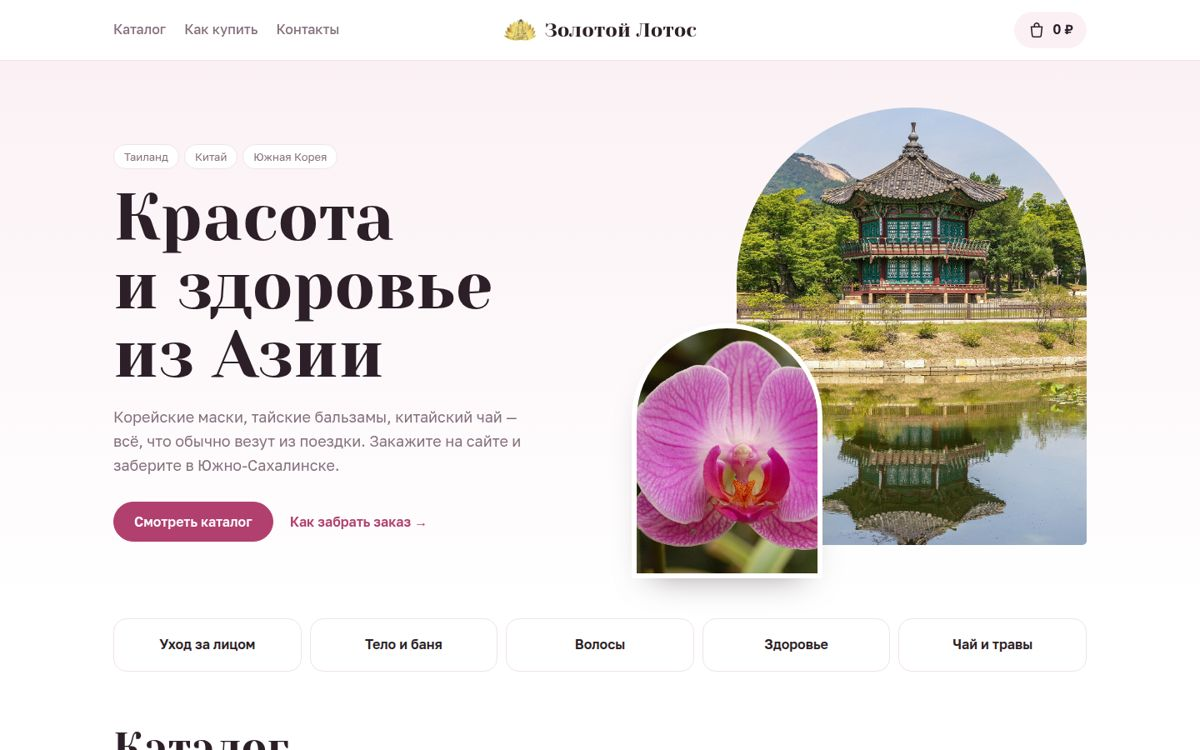
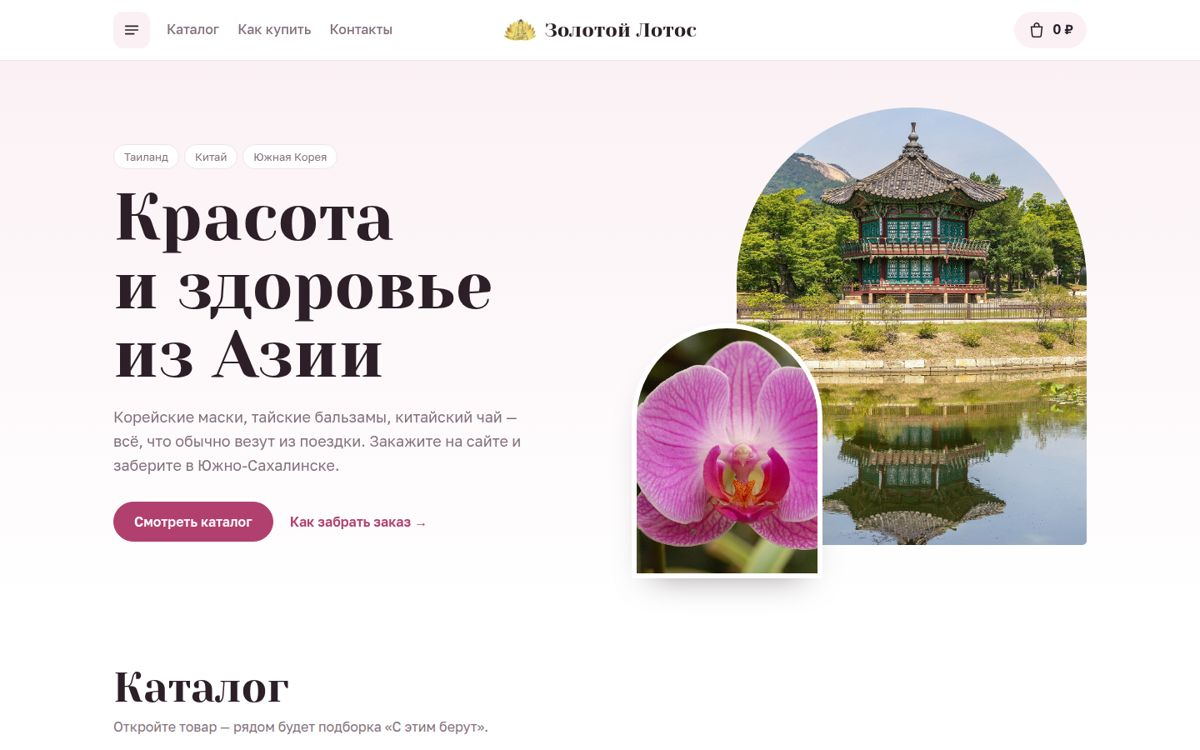
Боковое меню во всех вариантах, доработана вёрстка «Орхидеи» и «Тумана над горами»

diff --git a/lite/shop.css b/lite/shop.css
@@ -8,6 +8,7 @@ button, input, textarea { font: inherit; color: inherit; }
 button { cursor: pointer; }
 a { color: inherit; }
 :focus-visible { outline: 2px solid var(--accent); outline-offset: 2px; }
+[hidden] { display: none !important; }
 .lt-vh { position: absolute; width: 1px; height: 1px; overflow: hidden; clip: rect(0 0 0 0); }
 .wrap { width: 100%; max-width: 1200px; margin: 0 auto; padding-left: max(16px, env(safe-area-inset-left, 0px)); padding-right: max(16px, env(safe-area-inset-right, 0px)); }
 
@@ -32,6 +33,7 @@ a { color: inherit; }
 .lt-subs button { min-height: 36px; padding: 0 14px; border: 0; border-radius: 999px; background: var(--soft); font-size: 14px; transition: background .2s, color .2s; }
 .lt-subs button.is-on { background: var(--accent); color: var(--accent-ink); }
 .lt-search { position: relative; flex: 1 1 240px; max-width: 340px; margin-left: auto; }
+.lt-subs[hidden] + .lt-search { margin-left: 0; max-width: 420px; }
 .lt-search svg { position: absolute; left: 14px; top: 50%; width: 18px; translate: 0 -50%; fill: none; stroke: var(--muted); stroke-width: 2; }
 .lt-search input { width: 100%; height: 44px; padding: 0 14px 0 40px; border: 1px solid var(--line); border-radius: 999px; background: var(--surface); }
 .lt-grid { display: grid; grid-template-columns: repeat(auto-fill, minmax(220px, 1fr)); gap: 18px; }
@@ -40,13 +42,13 @@ a { color: inherit; }
 
 .lt-card { display: flex; flex-direction: column; border-radius: var(--r); background: var(--surface); border: 1px solid var(--line); overflow: hidden; transition: transform .3s ease, box-shadow .3s ease; }
 .lt-card:hover { transform: translateY(-3px); box-shadow: 0 16px 30px -22px rgba(0,0,0,.35); }
-.lt-card__img { position: relative; display: block; width: 100%; aspect-ratio: 1; padding: 14%; border: 0; background: var(--soft); }
+.lt-card__img { position: relative; display: block; overflow: hidden; min-height: 0; width: 100%; aspect-ratio: 1; padding: 14%; border: 0; background: var(--soft); }
 .lt-card__img svg, .lt-card__img img { width: 100%; height: 100%; object-fit: contain; transition: transform .4s ease; }
 .lt-card:hover .lt-card__img svg { transform: scale(1.04); }
 .lt-badge { position: absolute; top: 12px; left: 12px; padding: 3px 10px; border-radius: 999px; background: var(--surface); color: var(--accent); font-size: 12px; font-weight: 700; }
 .lt-card__body { flex: 1; display: flex; flex-direction: column; gap: 4px; padding: 14px 16px 16px; }
 .lt-card__meta { margin: 0; font-size: 12px; color: var(--muted); letter-spacing: .02em; }
-.lt-card__title { margin: 0 0 8px; font: 600 16px/1.3 var(--f-body); }
+.lt-card__title { margin: 0 0 8px; min-height: 2.6em; font: 600 16px/1.3 var(--f-body); }
 .lt-card__title button { padding: 0; border: 0; background: none; text-align: left; }
 .lt-card__title button:hover { color: var(--accent); }
 .lt-card__foot { margin-top: auto; display: flex; align-items: center; justify-content: space-between; gap: 8px; }
@@ -157,7 +159,34 @@ dialog::backdrop { background: rgba(20, 16, 12, .45); }
   .lt-card__body { padding: 10px 12px 12px; }
   .lt-card__title { font-size: 14px; }
   .lt-card__foot { flex-wrap: wrap; }
-  .lt-card__foot .lt-add { width: 100%; }
+  .lt-card__foot [data-ctl], .lt-card__foot .lt-add, .lt-card__foot .lt-step { flex: 1 1 100%; width: 100%; }
+  .lt-card__foot .lt-step { justify-content: space-between; }
   .lt-search { max-width: none; }
 }
 @media (prefers-reduced-motion: reduce) { *, *::before, *::after { animation: none !important; transition: none !important; } html { scroll-behavior: auto; } }
+
+/* Боковое меню */
+section[id] { scroll-margin-top: 76px; }
+.lt-burger { display: inline-grid; place-items: center; gap: 0; width: 44px; height: 44px; flex: none; padding: 0; border: 1px solid var(--line); border-radius: 12px; background: var(--surface); color: var(--ink); }
+.lt-burger svg { width: 22px; fill: none; stroke: currentColor; stroke-width: 1.8; stroke-linecap: round; }
+.lt-side { margin: 0 auto 0 0; width: min(340px, 88%); height: 100%; max-height: 100%; }
+.lt-side[open] { animation: lt-slide-l .3s ease; }
+.lt-side__in { display: flex; flex-direction: column; height: 100%; padding: env(safe-area-inset-top, 0px) 0 env(safe-area-inset-bottom, 0px) env(safe-area-inset-left, 0px); }
+.lt-side__h { position: relative; padding: 22px 60px 18px 22px; border-bottom: 1px solid var(--line); }
+.lt-side__logo { font: 400 24px/1.2 var(--f-head); color: var(--accent); }
+.lt-side__h .lt-x { top: 14px; }
+.lt-side__nav { flex: 1; overflow-y: auto; display: grid; align-content: start; padding: 10px 12px; }
+.lt-side__nav > a, .lt-side__nav > button { display: flex; align-items: center; justify-content: space-between; gap: 10px; min-height: 50px; padding: 0 12px; border: 0; border-radius: 12px; background: none; font-size: 17px; text-align: left; text-decoration: none; transition: background .2s; }
+.lt-side__nav b { font-weight: 600; }
+.lt-side__cats { display: grid; margin: 0 0 8px 12px; padding-left: 12px; border-left: 2px solid var(--line); }
+.lt-side__cats a { display: flex; justify-content: space-between; align-items: center; min-height: 42px; padding: 0 12px; border-radius: 10px; color: var(--muted); text-decoration: none; transition: background .2s, color .2s; }
+.lt-side__cats small { font-size: 12px; }
+.lt-side__nav a:hover, .lt-side__nav button:hover, .lt-side__cats a:hover { background: var(--soft); color: var(--ink); }
+.lt-side__f { display: grid; gap: 12px; padding: 18px 22px 22px; border-top: 1px solid var(--line); font-size: 14px; }
+.lt-side__f p { margin: 0; line-height: 1.45; }
+.lt-side__f small { display: block; margin-bottom: 2px; font-size: 11px; font-weight: 700; letter-spacing: .12em; text-transform: uppercase; color: var(--accent); }
+.lt-side__f span { color: var(--muted); font-size: 13px; }
+.lt-side__msg { display: flex; flex-wrap: wrap; gap: 6px; }
+.lt-side__msg a { padding: 8px 14px; border-radius: 999px; background: var(--soft); font-weight: 600; text-decoration: none; }
+.lt-side__msg a:hover { background: var(--accent); color: var(--accent-ink); }
+@keyframes lt-slide-l { from { transform: translateX(-30px); opacity: 0; } }

diff --git a/v11/index.html b/v11/index.html
@@ -16,6 +16,7 @@
 
 <header class="hdr">
   <div class="wrap hdr__in">
+    <button class="lt-burger" data-menu-open aria-label="Открыть меню"><svg viewBox="0 0 24 24" aria-hidden="true"><path d="M4 7h16M4 12h16M4 17h11"/></svg></button>
     <a class="logo" href="#top"><img src="../assets/img/logo-emblem.png" alt=""><span>Золотой Лотос<small>товары из Азии</small></span></a>
     <nav class="hdr__nav" aria-label="Разделы">
       <a href="#catalog">Каталог</a>
@@ -52,25 +53,25 @@
     <div class="wrap">
       <div class="sec-head">
         <h2 class="h2">Каталог</h2>
-        <button class="sec-head__cart" data-cart-open>Корзина: <span data-cart-total>0 ₽</span></button>
+        <p class="sec-head__sub">Нажмите на товар — покажем, что к нему подойдёт.</p>
       </div>
       <div data-catalog></div>
     </div>
   </section>
 
-  <section class="how" id="how">
+  <section class="how" id="how" data-menu="Самовывоз">
     <div class="wrap how__in" data-rise>
       <div class="how__text">
         <h2 class="h2">Как получить заказ</h2>
         <ol class="steps">
           <li>Соберите корзину и оставьте телефон.</li>
           <li>Мы напишем, когда заказ будет готов.</li>
-          <li>Приезжайте, смотрите товар на месте и оплачиваете так, как договоритесь с продавцом.</li>
+          <li>Приезжайте, посмотрите товар на месте и оплатите, как договоритесь с продавцом.</li>
         </ol>
         <p class="soon">Онлайн-оплата и доставка — скоро.</p>
       </div>
       <div class="addr">
-        <img src="../assets/img/misty-pagoda.jpg" alt="Пагода в тумане над озером" loading="lazy">
+        <img src="../assets/img/guilin-river.jpg" alt="Река Ли и горы, Гуйлинь" loading="lazy">
         <div class="addr__c">
           <small>Пункт выдачи</small>
           <p><span data-shop="city"></span>, <b data-shop="pickup"></b></p>
@@ -81,7 +82,7 @@
     </div>
   </section>
 
-  <section class="contacts" id="contacts">
+  <section class="contacts" id="contacts" data-menu="Связаться">
     <div class="wrap contacts__in" data-rise>
       <div>
         <h2 class="h2">Есть вопрос?</h2>

diff --git a/lite/shop.js b/lite/shop.js
@@ -268,5 +268,32 @@
     new IntersectionObserver(es => es.forEach(en => { if (en.isIntersecting) { en.target.classList.add('is-in'); io.unobserve(en.target); } }), { threshold: .12 });
   if (io) $$('[data-rise]').forEach(el => { if (el.getBoundingClientRect().top > innerHeight) { el.classList.add('rise'); io.observe(el); } });
 
+  /* ---------- Боковое меню ----------
+     Пункты: каталог с категориями + секции страницы с атрибутом data-menu="Название". */
+  const sections = $$('[data-menu][id]');
+  document.body.insertAdjacentHTML('beforeend', `
+    <dialog class="lt-side" id="lt-side" aria-label="Меню"><div class="lt-side__in">
+      <header class="lt-side__h"><span class="lt-side__logo">${S.name}</span><button class="lt-x" data-close aria-label="Закрыть меню">×</button></header>
+      <nav class="lt-side__nav">
+        <a href="#catalog" data-goto-cat="all" data-side-go><b>Каталог</b></a>
+        <div class="lt-side__cats">${CATS.map(c => `<a href="#catalog" data-goto-cat="${c.id}" data-side-go>${c.title}<small>${P.filter(p => p.cat === c.id).length}</small></a>`).join('')}</div>
+        ${sections.map(s => `<a href="#${s.id}" data-side-go><b>${s.dataset.menu}</b></a>`).join('')}
+        <button data-cart-open data-side-go><b>Корзина</b><i data-cart-count class="is-empty">0</i></button>
+      </nav>
+      <footer class="lt-side__f">
+        <p><small>Пункт выдачи</small>${S.city}, ${S.pickup}<br><span>${S.pickupNote}</span></p>
+        <div class="lt-side__msg"><a href="${links.wa}" target="_blank" rel="noopener">WhatsApp</a><a href="${links.tg}" target="_blank" rel="noopener">Telegram</a><a href="${links.vk}" target="_blank" rel="noopener">ВК</a></div>
+      </footer>
+    </div></dialog>`);
+  const side = $('#lt-side');
+  side.addEventListener('click', e => {
+    if (e.target === side) return side.close();
+    const go = e.target.closest('[data-side-go]'); if (!go) return;
+    side.close();
+    const href = go.getAttribute('href');
+    if (href) { e.preventDefault(); $(href)?.scrollIntoView({ behavior: matchMedia('(prefers-reduced-motion: reduce)').matches ? 'auto' : 'smooth' }); }
+  });
+  document.addEventListener('click', e => { if (e.target.closest('[data-menu-open]')) side.showModal(); });
+
   buildCatalog(); refreshAll();
 })();

diff --git a/v10/index.html b/v10/index.html
@@ -16,11 +16,14 @@
 
 <header class="hdr">
   <div class="wrap hdr__in">
+    <div class="hdr__left">
+    <button class="lt-burger" data-menu-open aria-label="Открыть меню"><svg viewBox="0 0 24 24" aria-hidden="true"><path d="M4 7h16M4 12h16M4 17h11"/></svg></button>
     <nav class="hdr__nav" aria-label="Разделы">
       <a href="#catalog">Каталог</a>
       <a href="#how">Как купить</a>
       <a href="#contacts">Контакты</a>
     </nav>
+    </div>
     <a class="logo" href="#top"><img src="../assets/img/logo-emblem.png" alt=""><span>Золотой Лотос</span></a>
     <button class="cart-btn" data-cart-open aria-label="Корзина">
       <svg viewBox="0 0 24 24" aria-hidden="true"><path d="M5 8h14l-1.2 11.2a2 2 0 0 1-2 1.8H8.2a2 2 0 0 1-2-1.8Z"/><path d="M9 8V6a3 3 0 0 1 6 0v2"/></svg>
@@ -48,15 +51,6 @@
     </div>
   </section>
 
-  <section class="cats-quick" aria-label="Популярные категории">
-    <div class="wrap cats-quick__in">
-      <a href="#catalog" data-goto-cat="face">Уход за лицом</a>
-      <a href="#catalog" data-goto-cat="body">Тело и баня</a>
-      <a href="#catalog" data-goto-cat="hair">Волосы</a>
-      <a href="#catalog" data-goto-cat="health">Здоровье</a>
-      <a href="#catalog" data-goto-cat="tea">Чай и травы</a>
-    </div>
-  </section>
 
   <section class="catalog" id="catalog">
     <div class="wrap">
@@ -66,7 +60,7 @@
     </div>
   </section>
 
-  <section class="how" id="how">
+  <section class="how" id="how" data-menu="Как купить">
     <div class="wrap how__in" data-rise>
       <div>
         <h2 class="h2">Как купить</h2>
@@ -80,7 +74,7 @@
     </div>
   </section>
 
-  <section class="contacts" id="contacts">
+  <section class="contacts" id="contacts" data-menu="Контакты и адрес">
     <div class="wrap contacts__in" data-rise>
       <div class="place">
         <p class="place__k">Пункт выдачи</p>

diff --git a/v11/style.css b/v11/style.css
@@ -45,7 +45,7 @@
 .lt-add { border-radius: 10px; }
 .lt-step { border-radius: 10px; }
 
-.how { padding-block: 0 64px; }
+.how { padding-block: 8px 64px; }
 .how__in { display: grid; grid-template-columns: 1fr 1fr; gap: 24px; align-items: stretch; }
 .how__text { padding: 36px; border-radius: 22px; background: var(--ink); color: #fff; }
 .how__text .h2 { color: #fff; }
@@ -90,3 +90,22 @@
   .facts li { padding: 12px 16px; }
   .how__text { padding: 26px 22px; }
 }
+
+/* Доработки: меню, каталог в 3 колонки, мобильная версия */
+.hdr__in { gap: 14px; }
+.lt-burger { border: 0; background: var(--soft); border-radius: 12px; }
+.sec-head__sub { margin: 0; color: var(--muted); }
+@media (min-width: 901px) {
+  .lt-grid { grid-template-columns: repeat(3, minmax(0, 1fr)); gap: 20px; }
+  .lt-card__img { aspect-ratio: 5 / 4; padding: 10%; }
+}
+@media (max-width: 560px) {
+  .facts { display: none; }
+  .addr { min-height: 300px; }
+  .logo small { display: none; }
+  .lt-cats { margin-inline: -16px; padding-inline: 16px; }
+  .catalog { padding-block: 44px; }
+}
+
+/* Ссылка на хаб с вариантами — только на широком экране, чтобы не перекрывать контент */
+@media (max-width: 1299px) { .back-hub { display: none; } }

diff --git a/v9/index.html b/v9/index.html
@@ -16,6 +16,7 @@
 
 <header class="hdr">
   <div class="wrap hdr__in">
+    <button class="lt-burger" data-menu-open aria-label="Открыть меню"><svg viewBox="0 0 24 24" aria-hidden="true"><path d="M4 7h16M4 12h16M4 17h11"/></svg></button>
     <a class="logo" href="#top"><img src="../assets/img/logo-emblem.png" alt=""><span>Золотой Лотос</span></a>
     <nav class="hdr__nav" aria-label="Разделы">
       <a href="#catalog">Каталог</a>
@@ -43,7 +44,7 @@
     </div>
   </section>
 
-  <section class="how" id="how">
+  <section class="how" id="how" data-menu="Как купить">
     <div class="wrap how__in" data-rise>
       <ol class="steps">
         <li><b>Соберите заказ</b><span>Добавьте товары в корзину и оставьте телефон.</span></li>
@@ -68,7 +69,7 @@
     </div>
   </section>
 
-  <section class="contacts" id="contacts">
+  <section class="contacts" id="contacts" data-menu="Контакты и адрес">
     <div class="wrap contacts__in" data-rise>
       <div class="contacts__photo"><img src="../assets/img/lotus-soft.jpg" alt="Цветок лотоса" loading="lazy"></div>
       <div class="contacts__text">

diff --git a/v9/style.css b/v9/style.css
@@ -9,7 +9,7 @@
 .back-hub { position: fixed; left: max(12px, env(safe-area-inset-left, 0px)); bottom: calc(12px + env(safe-area-inset-bottom, 0px)); z-index: 40; padding: 6px 12px; border-radius: 999px; background: rgba(43,34,25,.8); color: #fff; font-size: 12px; text-decoration: none; }
 
 .hdr { position: sticky; top: 0; z-index: 20; background: rgba(251,248,243,.92); backdrop-filter: blur(8px); border-bottom: 1px solid var(--line); }
-.hdr__in { display: flex; align-items: center; gap: 24px; min-height: 68px; }
+.hdr__in { display: flex; align-items: center; gap: 16px; min-height: 68px; }
 .logo { display: inline-flex; align-items: center; gap: 10px; font: 400 26px/1 var(--f-head); color: var(--accent); text-decoration: none; }
 .logo img { width: 42px; }
 .logo--s { font-size: 20px; } .logo--s img { width: 30px; }
@@ -98,3 +98,6 @@
   .cart-float [data-cart-count] { background: #fff; color: var(--accent); }
   .cart-float:has(.is-empty) { display: none; }
 }
+
+/* Ссылка на хаб с вариантами — только на широком экране, чтобы не перекрывать контент */
+@media (max-width: 1299px) { .back-hub { display: none; } }

diff --git a/v10/style.css b/v10/style.css
@@ -98,3 +98,26 @@
   .msg { grid-template-columns: 1fr; }
   .place, .talk { padding: 22px; }
 }
+
+/* Доработки: меню, каталог в 3 колонки, мобильный первый экран */
+.hdr__left { display: flex; align-items: center; gap: 20px; }
+.lt-burger { border: 0; background: var(--soft); }
+@media (min-width: 901px) {
+  .lt-grid { grid-template-columns: repeat(3, minmax(0, 1fr)); gap: 22px; }
+  .lt-card__img { aspect-ratio: 5 / 4; padding: 10%; }
+}
+@media (max-width: 900px) {
+  .hdr__in { grid-template-columns: auto 1fr auto; }
+  .logo { justify-self: start; }
+}
+@media (max-width: 560px) {
+  .hero__pics { padding: 0; }
+  .arch--small { display: none; }
+  .arch--big { aspect-ratio: 1 / 1; max-width: none; margin: 0; border-radius: 999px 999px 20px 20px; }
+  .hero__cta { gap: 14px 20px; }
+  .lt-cats { margin-inline: -16px; padding-inline: 16px; }
+  .cart-btn [data-cart-total] { display: none; }
+}
+
+/* Ссылка на хаб с вариантами — только на широком экране, чтобы не перекрывать контент */
+@media (max-width: 1299px) { .back-hub { display: none; } }
